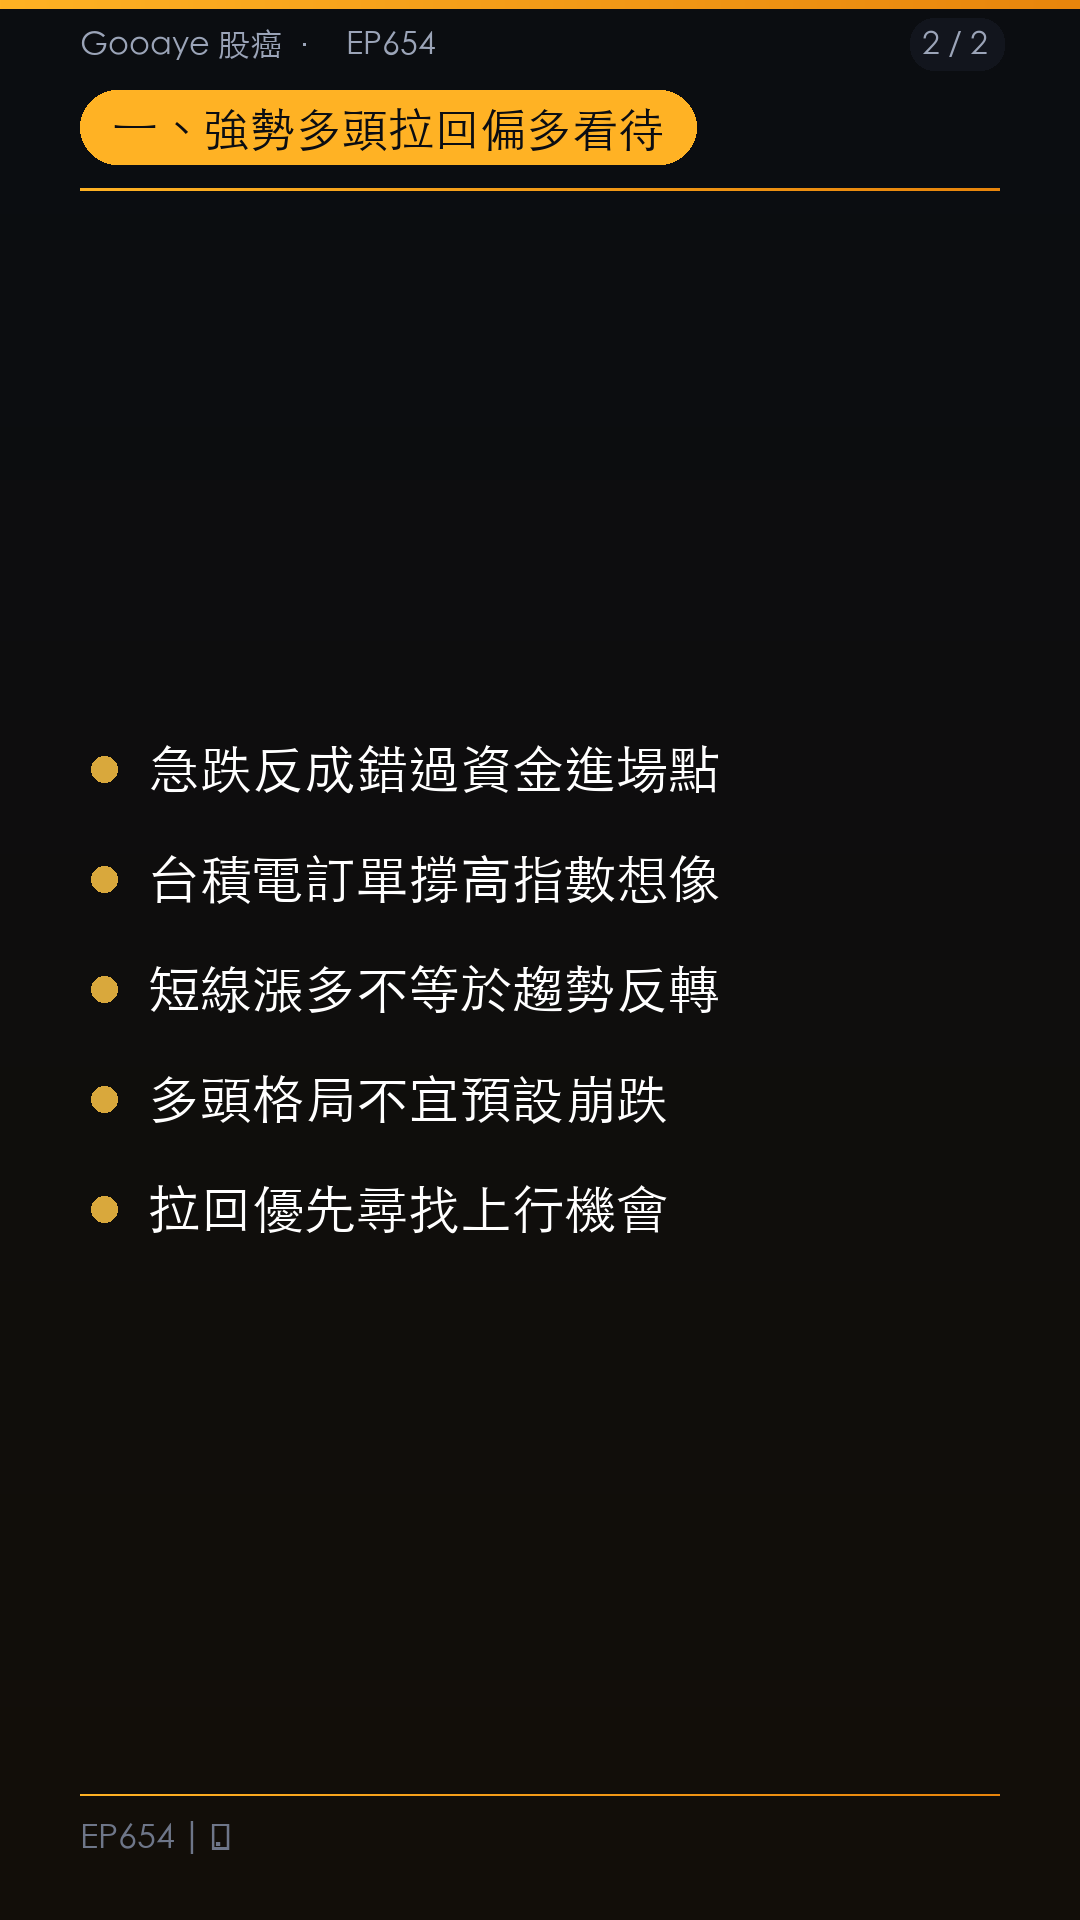
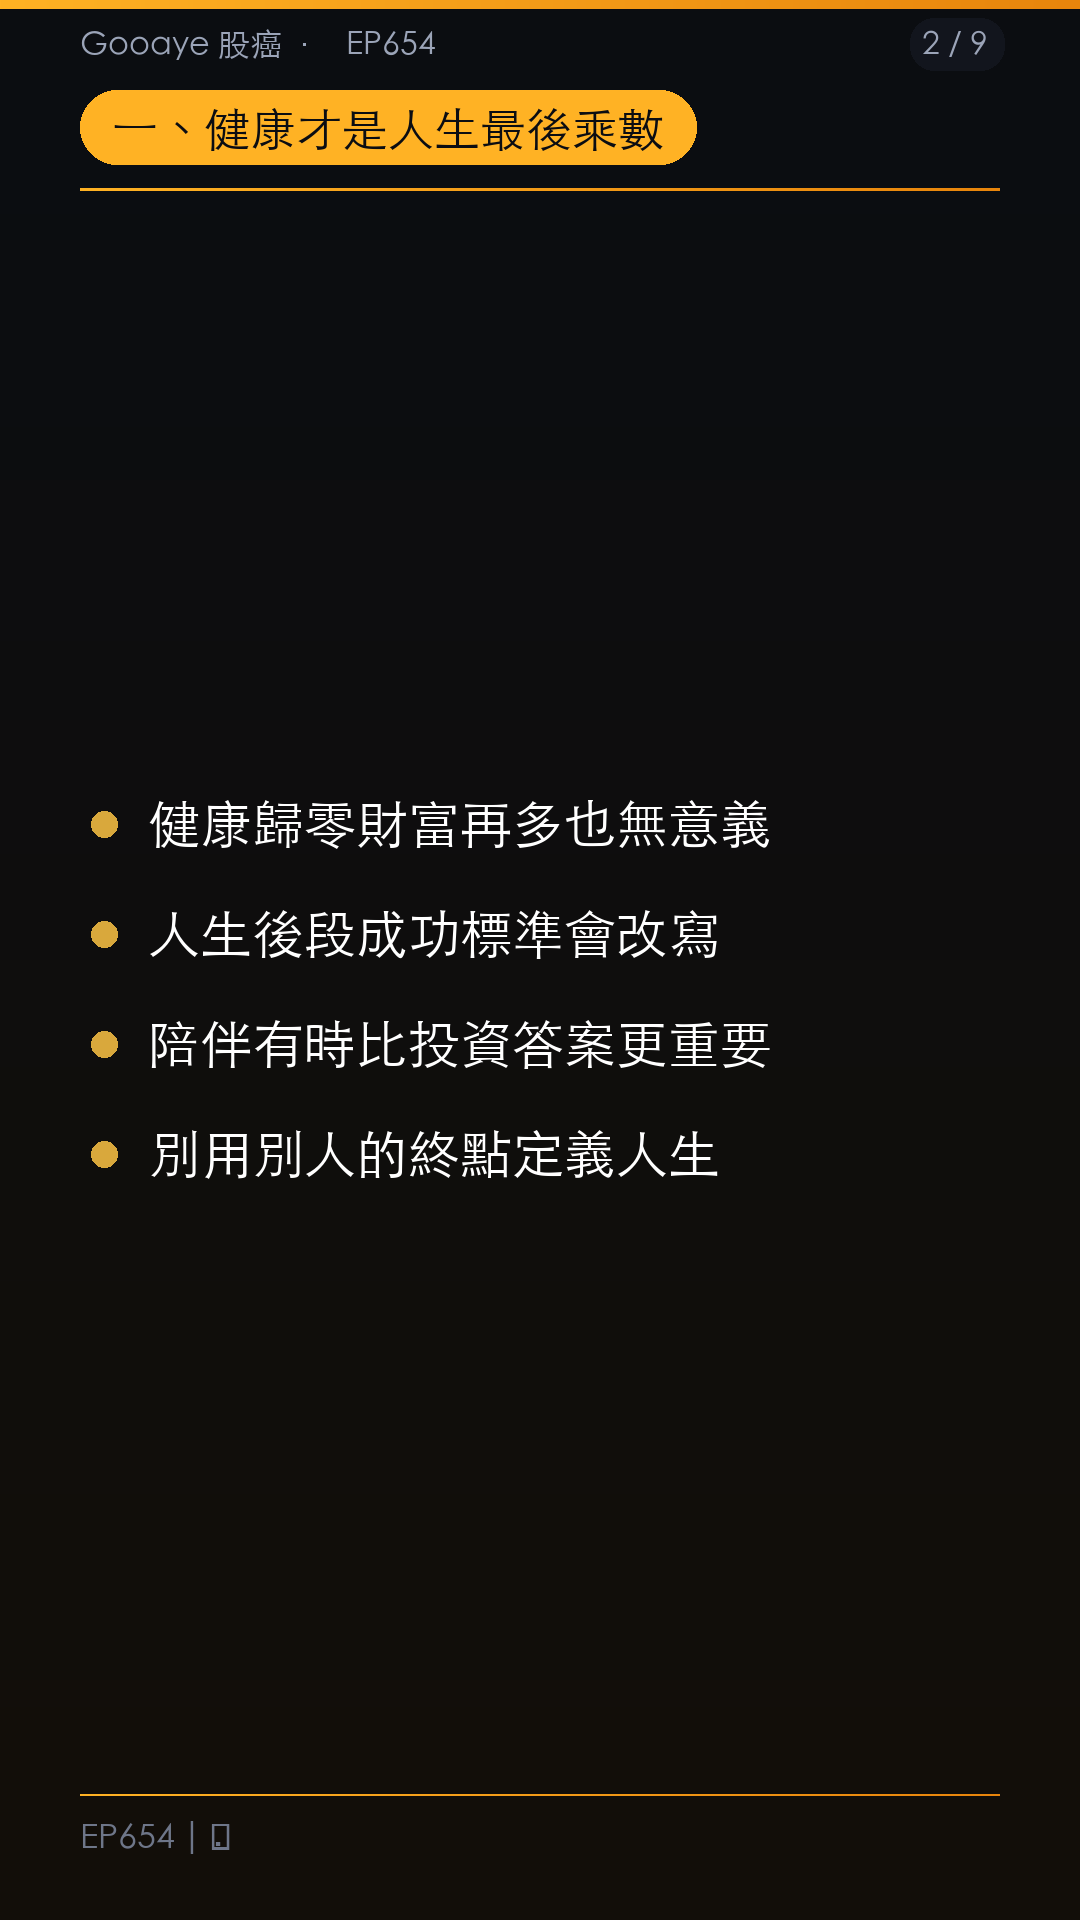
chore: deploy static site — 2026-08-16 23:57

Changed region(s): [[0.0917, 0.375, 0.7028, 0.6562], [0.1833, 0.0312, 0.6111, 0.0938]]

diff --git a/docs/summaries/5fsHnTWdcjY.md b/docs/summaries/5fsHnTWdcjY.md
@@ -5,7 +5,7 @@ channel_id: UC23rnlQU_qE3cec9x709peA
 channel_name: Gooaye 股癌
 published: 2026-04-18
 processed: 2026-04-18
-hashtags: #台積電 #AI #CPU #被動元件 #多頭行情 #Gooaye股癌
+hashtags: #台積電 #被動元件 #CPU缺貨 #AI硬體 #多頭行情 #Gooaye股癌
 ---
 
 # EP654 | 🌵
@@ -15,44 +15,278 @@ hashtags: #台積電 #AI #CPU #被動元件 #多頭行情 #Gooaye股癌
 ## 本集主題總覽
 
 
-美台股轉為強勢多頭，拉回更偏向尋找進場機會
+從聽眾人生遭遇談生命、健康與陪伴，健康才是其他成就成立的前提
 
-台積電展現資本支出信心，市場資金持續追逐新成長題材
+美股、台股強勢突破，主委將盤勢定義為明朗多頭，拉回反而偏向找機會
 
-被動元件全球轉強，電阻也出現漲價訊號
+台積電展望與資本支出維持強勁，市場題材則持續向新業績與低位階族群擴散
 
-記憶體資金鈍化，缺貨漲價資金開始尋找下一個出口
+全球被動元件走強，電阻也出現漲價信，缺貨漲價故事持續擴大
 
-CPU可能成為市場尚未充分定價的「房間裡的大象」
+CPU可能成為市場忽略的「房間裡的大象」，並進一步排擠伺服器相關零組件產能
 
-Rubin備貨尚未全面啟動，滿載產能可能再受新需求擠壓
+AI投資敘事開始從燒多少 Token，轉向是否真正產生產品、業績與財務回報
 
-AI投資論述從Token消耗轉向實際產出與財務結果
-
-企業全面使用AI後，競爭核心回到商業化、Sales與獲利能力
+投資不必預設行情高點，強勢階段更重要的是持續辨識可追蹤的新機會
 
 
-## 一、強勢多頭拉回偏多看待
+## 一、健康才是人生最後乘數
 
 
-**上檔空間打開**
+**陪伴帶來影響**
 
-主委判斷，美股與台股近期攻勢非常強，台股又高度受台積電影響；若台積電訂單沒有重大變化，依其推估甚至可對應指數突破4萬點，因此要先做好更高位置的心理準備。
-
-
-**拉回有人承接**
-
-前段漲勢速度太快，市場仍有大量資金沒有上車。即使後續出現利空或急跌，未必代表趨勢反轉，反而可能吸引錯過行情的資金承接，形成支撐。
+收到聽眾家庭遭逢變故的訊息後，他感受到節目早已不只談股票，也可能陪人走過低潮甚至人生最後階段；能提供實際協助時，願意盡量支援。
 
 
-**多頭型態明朗**
+**健康決定一切**
 
-目前走勢已從不確定轉為明顯強勢多頭。所謂「業力引爆」仍須看位階，不能只因短期大漲就預設崩跌；若沒有重大事件破壞趨勢，拉回更偏向買點思考。
+工作、財富等都像前面的數字，最後還要乘上健康這個百分比。健康若是 100%，其他成果才有意義；若健康歸零，再大的財富也失去作用。
 
 
-**先找上行機會**
+**生命觀開始改變**
 
-市場已用大根上漲表態短底形成後，分析框架也要隨價格訊號調整。與其行情漲高後一直猜何時崩，不如先辨識仍有
+過去較傾向相信死亡後就是空白，近年歷經孩子與聽眾的人生事件後，開始願意相信來世或某種能量，希望重要的人仍能再次相遇。
+
+
+**成功標準會變**
+
+年輕時可能把有錢當成功，現在更在意健康、家人與孩子是否過得好。每個階段想追求的東西不同，因此不必套用別人對成功與財富的標準。
+
+
+## 二、強勢多頭拉回反而找機會
+
+
+**多頭格局明朗**
+
+美股與台股都呈現非常強勢的上攻。台股核心仍是台積電，只要訂單沒有明顯被取消，他認為台積電的成長可以進一步推導指數上方空間，甚至談到 4 萬點以上。
+
+
+**拉回思維翻轉**
+
+在這種強勢型態下，即使後面出現利空或劇烈回檔，思考方式也不再先假設行情結束，而是偏向把多頭中的拉回視為重新上車的地方。
+
+
+**追高者仍有支撐**
+
+前段漲勢太快，必然有大量資金沒有上車，因此一旦出現明顯回檔，就可能吸引等待進場者，形成新的承接與支撐。
+
+
+**不預設行情高點**
+
+他不急著猜派對何時結束，而是在盤面仍強時盡量找題材、辨識 upside。「能夠賺多少就賺多少」，真正需要做的是持續記錄下一批可能發動的機會。
+
+
+## 三、被動元件與CPU成新焦點
+
+
+**全球被動轉強**
+
+國巨法說態度偏保守，但日本、美國等被動元件公司已明顯轉強。國巨本身也在新高附近，只是相較國際同業走得較慢，整體產業可能正有新變化。
+
+
+**漲價範圍擴散**
+
+先前較缺的是電容與電感，近期連電阻都收到漲價信。原因可能只是金屬成本上升，也可能提前反映供需；他認為後續觀察稼動率更有意義。
+
+
+**資金尋找下一棒**
+
+記憶體價格雖強，但部分台股相關個股已相對疲弱，可能不是基本面轉差，而是車上資金太多。若報價型資金撤出，就可能轉往 ABF 載板、材料、被動元件等新缺貨題材。
+
+
+**CPU是房間大象**
+
+報導指出 CPU 缺貨可能比記憶體更嚴重：記憶體只是貴，但 CPU 可能買不到。若 general purpose server、AI server 同時大量拉貨，Socket 與周邊元件也可能出現新的排擠與漲價。
+
+
+## 四、AI硬體需求還有第二波
+
+
+**CPU需求未被充分估算**
+
+Agentic AI 需要 CPU 已不是秘密，但市場可能尚未充分反映需求規模。若 Intel、AMD 後續真的供不應求，CPU本身與其周邊零組件的價格與需求都可能再被上修。
+
+
+**Rubin準備拉貨**
+
+他原以為部分供應商已提前備貨，後來得知部分 Rubin BOM 才剛確定，真正拉貨還未全面開始；但不少產線稼動率已達九成以上甚至接近滿載。
+
+
+**產能排擠值得注意**
+
+若新平台開始大量拉料，CPU、GPU與其他伺服器需求可能彼此競價搶產能，使原本沒有被市場估到的零組件，再次出現缺貨漲價。
+
+
+**轉向尋找上行風險**
+
+市場前期因國際事件而擔心估值下修，但當價格用強勢反彈確認底部後，他改以不同思維看待下半年，重點轉成找還有哪些被低估的 upside，而不是一直等待崩跌。
+
+
+## 五、AI敘事轉向實際產出
+
+
+**Token不是績效**
+
+Uber年初數月便用完 AI Token 額度，看似非常 bullish，但真正關鍵是這些支出有沒有轉化成營運與財務成果。單純「Token Maxing」不能證明公司變得更有效率。
+
+
+**生產力也會通膨**
+
+每個競爭者都能使用 AI，因此個人看似提升很多生產力，不代表取得更多相對優勢。大家一起變快後，差異會重新回到誰能把效率轉成業績。
+
+
+**Result Base才重要**
+
+市場論述可能從「用了多少 AI」轉向「做出什麼產品、帶來多少結果」。若軟體仍只是 Cost Base、只增加支出而沒有產品與可量化成果，就可能被淘汰。
+
+
+**財務數字終會驗證**
+
+未來企業即使大量裁員、提高 Token 使用，也仍要回答毛利、淨利與現金流是否改善。當所有人都在使用 AI，真正決定價值的仍是真金白銀的營運成果。
+
+
+## 聽眾 QA
+
+
+**Q：有約一億元資產，該如何配置才能退休？**
+
+
+
+- 是否能退休不能只看資產總額，首先要知道每年實際支出多少。
+
+- 以一億元資產、約 5% 報酬粗估，每年約有 500 萬元可運用。
+
+- 若一年只花 200 多萬元，他認為已很有條件退休；若接近 400 多萬元，安全空間就比較緊。
+
+- 可先達到理想退休資產的約 7～8 成，再評估「退而不休」，保留其他收入來源。
+
+- 真正關鍵仍是個人的消費習慣與生活成本，不能用單一資產門檻套用所有人。
+
+
+
+**Q：CPU缺貨是否有利測試設備與相關供應鏈？**
+
+
+
+- CPU相關趨勢其實數月前已討論過，他認為這確實是值得認真追蹤的方向。
+
+- 相較自己不熟悉的 pluggable 光通訊，CPU及相關元件掌握度更高。
+
+- 除測試設備外，更值得深入估算的是 CPU 平台內部各元件的需求量與價值變化。
+
+- 因部分相關股票已大漲，他刻意避免在高檔反覆談個股，以免聽眾追價。
+
+
+
+**Q：市場這麼好，該不該把更多生活支出拿去投資？**
+
+
+
+- 做投資的人幾乎永遠會覺得資金不夠，賺得更多也不代表這種感受會消失。
+
+- 不必刻意模仿別人的消費方式，每個人願意花錢的地方本來就不同。
+
+- 他特別認為花錢購買體驗很值得，例如與家人旅行、留下共同回憶。
+
+- 每個人都能替自己的消費找到理由，因此真正重要的是確認這筆錢是否符合自己的價值排序。
+
+
+
+## 投資心法
+
+
+
+- 動能股往往跑得比價值股快，便宜不代表資金會立刻買單。
+
+- 財報仍虧損的公司不一定是亂炒，可能只是新業績尚未反映在數字上。
+
+- 股票基本面沒變卻不漲，也可能只是「車上太重」，資金需要尋找下一個方向。
+
+- 全球市場都能交易，不必把資金困在效率較差的單一市場或標的。
+
+- 研究族群輪動時，可先思考原本熱門題材的資金退潮後會轉往哪裡。
+
+- 行情強時不要一直預測何時崩跌，先辨識仍具上行空間的機會。
+
+- 投資人永遠可能覺得錢不夠用，資產增加不會自動解決「想再投入」的慾望。
+
+- 每個人生階段對成功與財富的定義都會改變，不必用固定終點衡量自己。
+
+
+
+## 提及標的
+
+
+
+- 台積電
+
+- 國巨
+
+- 漢唐
+
+- Intel
+
+- AMD
+
+- NVIDIA
+
+- Uber
+
+- Apple
+
+- Meta
+
+- Amazon
+
+- OpenAI
+
+- 0050
+
+- 美債
+
+- ABF 載板
+
+- 被動元件
+
+- MLCC
+
+- 電阻
+
+- 電容
+
+- 電感
+
+- 記憶體
+
+- CPU
+
+- GPU
+
+- General Purpose Server
+
+- AI Server
+
+- Socket
+
+- Rubin
+
+- 光通訊
+
+- Pluggable
+
+- SMT
+
+- 軟體股
+
+- SI
+
+- CSP
+
+- 台股
+
+- 美股
+
+- 日股
 
 ---
 **⚠ 負責任 AI 聲明與投資風險提示：**
